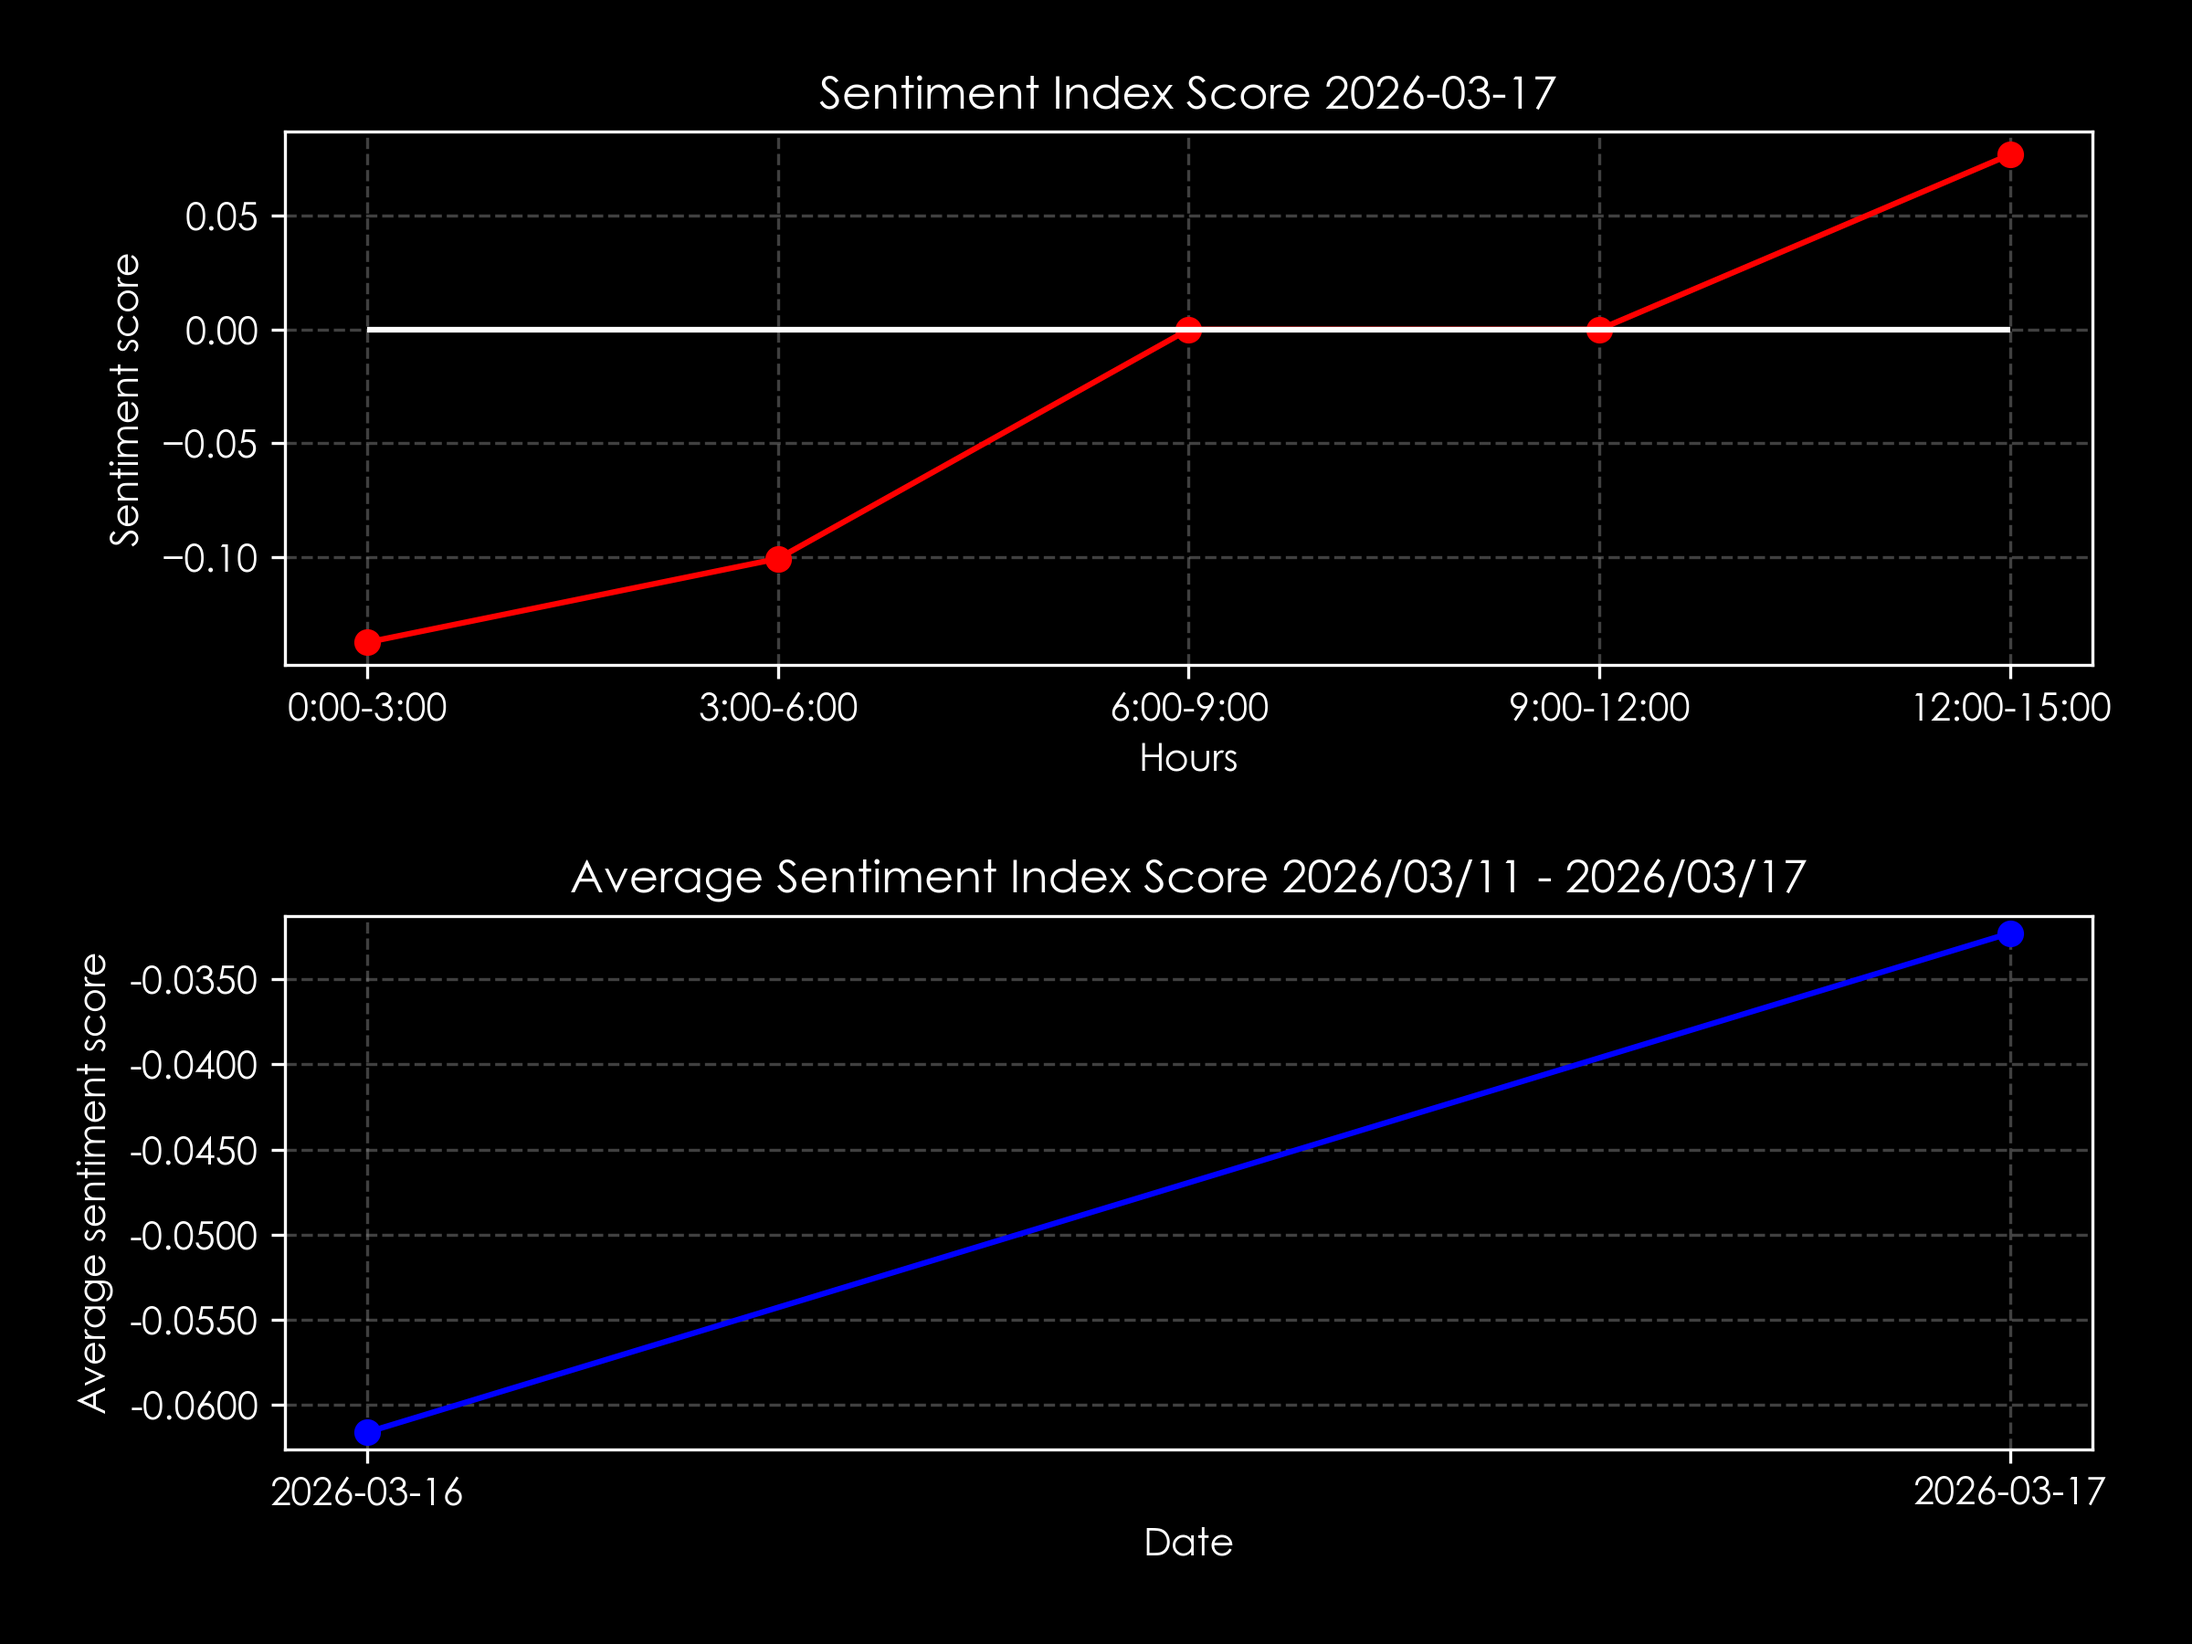
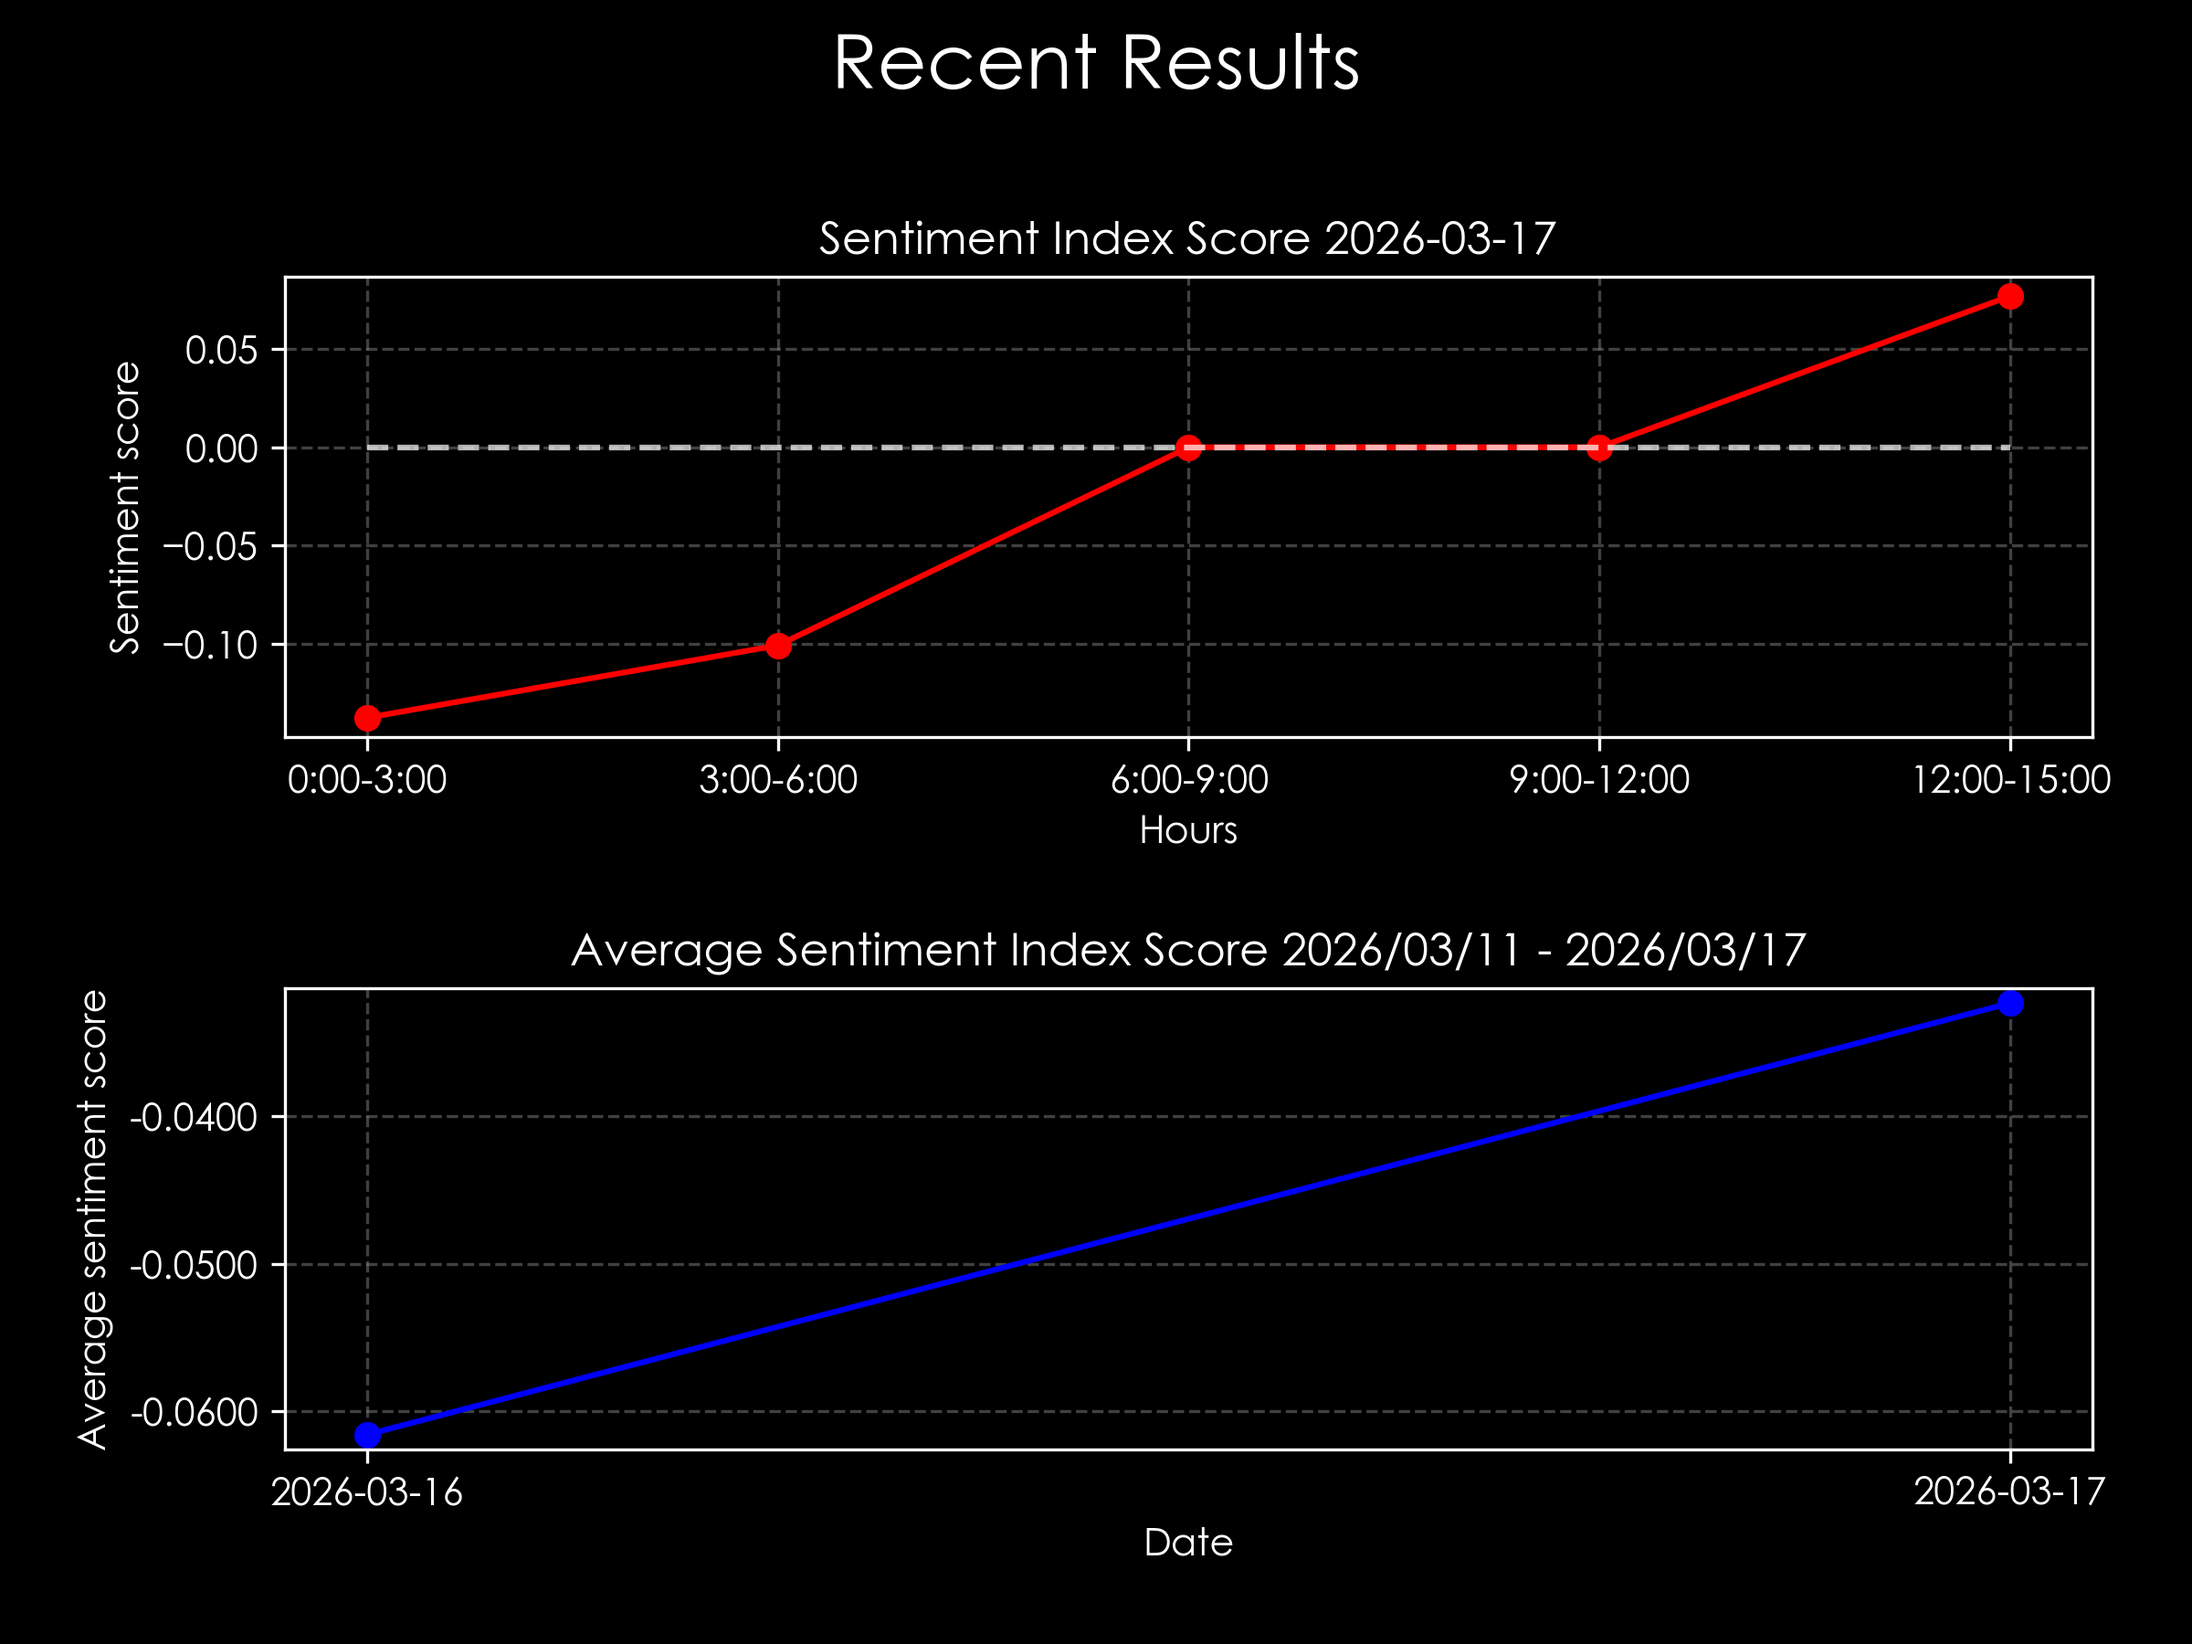
Small changes, clean up

diff --git a/plotting.py b/plotting.py
@@ -22,7 +22,7 @@ def display_last_day_scores(ax):
                       for start_time, end_time in zip(last_day_times_start, last_day_times_end)]
 
     ax.plot(plot_time_axis, last_day_scores, marker='o', linestyle='-', color='red')
-    ax.hlines(xmin=plot_time_axis[0], xmax=plot_time_axis[-1], y=0) # Add the y=0 line to the graph
+    ax.hlines(xmin=plot_time_axis[0], xmax=plot_time_axis[-1], y=0, alpha=0.7, linestyle='--') # Add the y=0 line to the graph
     ax.set_ylim(min(last_day_scores) - 0.01, max(last_day_scores) + 0.01) # Lock the y limits
     ax.set_title(f"Sentiment Index Score {last_day}")
     ax.set_xticks(plot_time_axis) # Set xticks to time periods
@@ -45,7 +45,7 @@ def display_last_week_scores(ax):
 
     # Plot
     ax.plot(scores.index, scores.values, marker='o', linestyle='-', color='blue')
-    ax.hlines(xmin=scores.index[0], xmax=scores.index[-1], y=0) # Add the y=0 line to the graph
+    ax.hlines(xmin=scores.index[0], xmax=scores.index[-1], y=0, linestyle='--', alpha=0.7) # Add the y=0 line to the graph
     ax.set_ylim(scores.values.min() - 0.001, scores.values.max() + 0.001) # Lock the y limits
     ax.set_title(f'Average Sentiment Index Score {first_day.strftime("%Y/%m/%d")} - {last_day.strftime("%Y/%m/%d")}')
     ax.set_xticks(scores.index) # Set xticks to days
@@ -58,6 +58,7 @@ plt.rcParams['font.family'] = 'Century Gothic' # Change font
 plt.style.use('dark_background') # BG color
 
 fig, (ax1, ax2) = plt.subplots(2, 1, figsize=(8, 6))
+fig.suptitle('Recent Results', fontsize=20)
 
 display_last_day_scores(ax1) # First plot on the top
 display_last_week_scores(ax2) # Second one on the bottom
